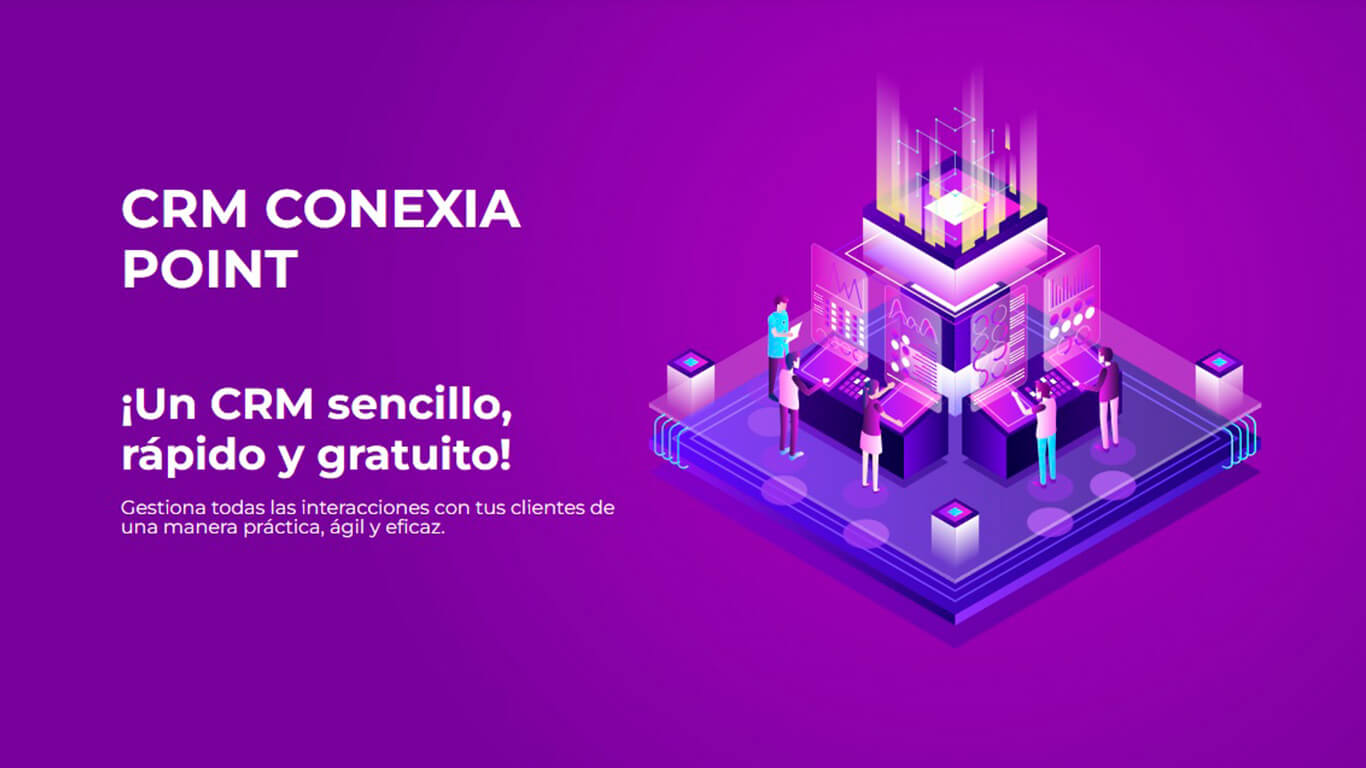
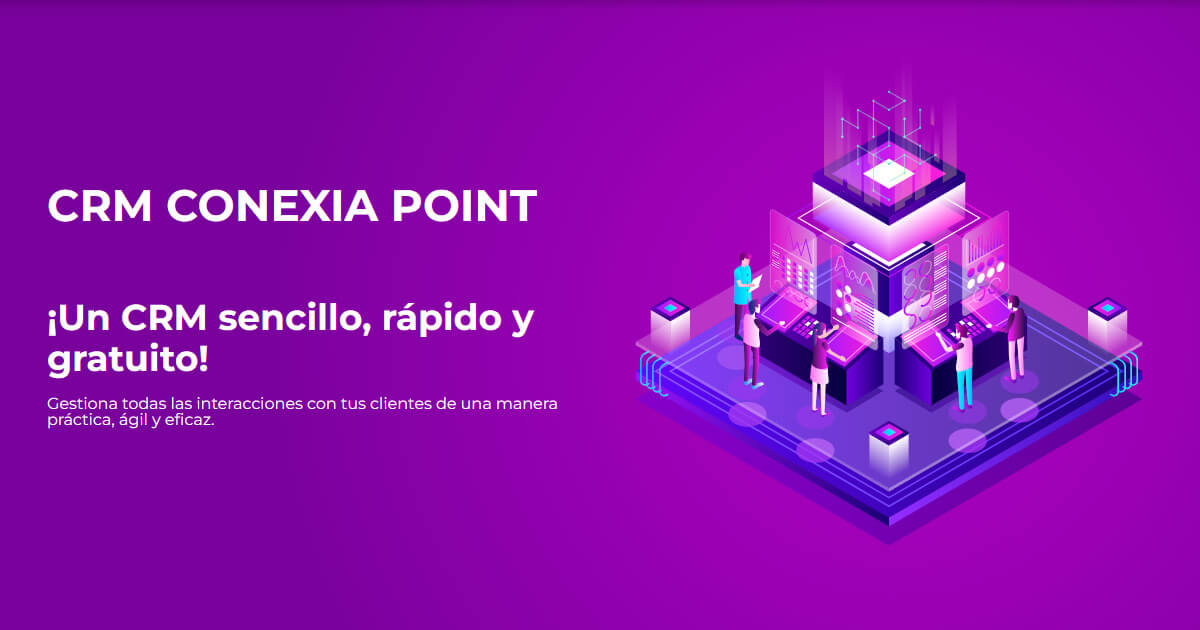
Correcciones en la metadata

Changed region(s): [[0.0308, 0.0905, 0.9558, 0.8746], [0.0308, 0.2413, 0.4625, 0.3921], [0.6167, 0.0, 0.6475, 0.0302]]

diff --git a/index.html b/index.html
@@ -1,21 +1,29 @@
 <!doctype html>
-<html lang="es_MX">
+<html lang="es">
   <head>
     <meta charset="UTF-8" />
     <link rel="icon" type="image/svg+xml" href="/img/favicon-conexia-point.png" />
     <meta name="viewport" content="width=device-width, initial-scale=1.0" />
     <link rel="canonical" href="https://conexiapoint.com">
     <link rel="stylesheet" href="node_modules/modern-normalize/modern-normalize.css">
+    <!-- Facebook Meta Tags -->
     <meta property="og:title" content="C.R.M. ConexiaPoint">
     <meta property="og:site_name" content="Conexia Point">
     <meta property="og:url" href="https://conexiapoint.com">
     <meta property="og:description" content="Conexia Point || C.R.M. Ágil, Sencillo y Eficaz">
     <meta property="og:type" content="website">
-    <meta property="og:image" href="/img/conexiapoint.jpg">
-    <meta property="og:image:width" content="1366px">
-    <meta property="og:image:height" content="768px">
+    <meta property="og:image" href="https://conexiapoint.com/img/conexiapoint.jpg">
+    <meta property="og:image:width" content="1200px">
+    <meta property="og:image:height" content="630px">
     <meta property="og:image:alt" content="Conexia Point || C.R.M. Ágil, Sencillo y Eficaz">
     <meta property="og:locale" content="es_MX">
+    <!-- Twitter Meta Tags -->
+    <meta name="twitter:card" content="summary_large_image">
+    <meta property="twitter:domain" content="conexiapoint.com">
+    <meta property="twitter:url" content="https://conexiapoint.com/">
+    <meta name="twitter:title" content="C.R.M. ConexiaPoint">
+    <meta name="twitter:description" content="Conexia Point || C.R.M. Ágil, Sencillo y Eficaz">
+    <meta name="twitter:image" content="https://conexiapoint.com/img/conexiapoint.jpg">
     <meta name="description" content="Descubre Conexia Point, el CRM diseñado para optimizar la gestión de tus clientes y potenciar tu negocio. Simplifica tus procesos, mejora la comunicación y aumenta la productividad con nuestra solución fácil de usar.">
     <meta name="robots" content="all, max-image-preview:large">
     <title>Conexia Point || C.R.M. Gratuito</title>

diff --git a/src/ui-user/hooks/useAuthUser.js b/src/ui-user/hooks/useAuthUser.js
@@ -9,6 +9,7 @@ export const useAuthUser = () => {
         try {
             const { data } = await conexiaPointAPI.post( '/auth/login-user', form );
             document.cookie = `auth-token=${ data.token }; max-age=1200; domain=.conexiapoint.com; path=/; samesite=none; secure`;
+            // document.cookie = `auth-token=${ data.token }; max-age=1200`;
             window.location.href = `${ import.meta.env.VITE_API_USER_URL }/escritorio`;
             return true;
         } catch (error) {
